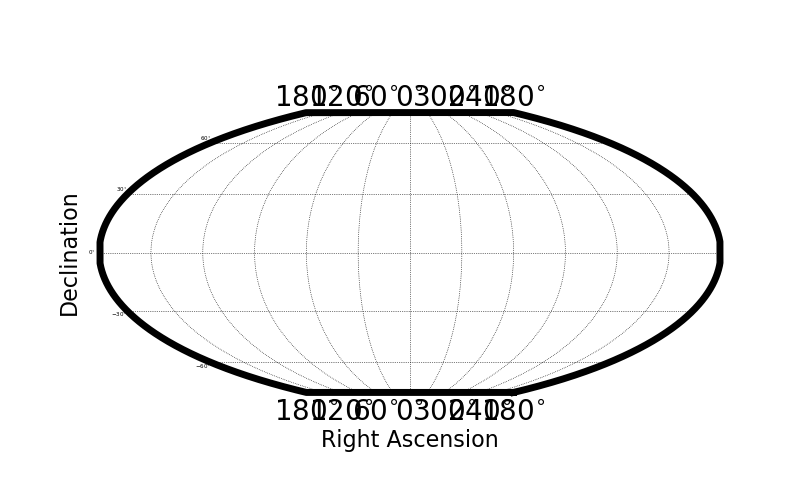
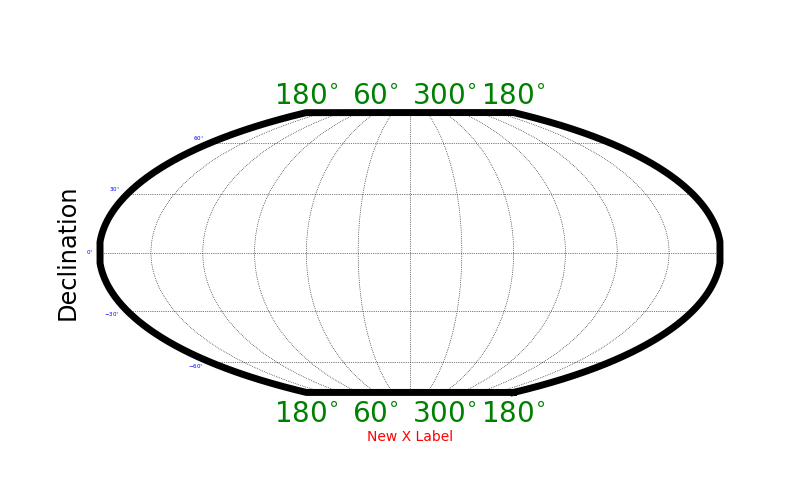
Update documentation on size overrides with new API.

diff --git a/docs/basic_interface.rst b/docs/basic_interface.rst
@@ -238,15 +238,19 @@ Plotting Customization
 
 Much of the plotting functionality is decided by `SkyProj` itself.
 However, there is a lot of customization available.
-The fonts, font sizes, tick label sizes, etc, are all determined by the :code:`matplotlib` RC parameter dictionary.
-A few of these in particular should be highlighted:
+With `SkyProj` version 2 the customization is easier than ever.
 
-* :code:`xticks.labelsize`: Sets the label size for the x (longitude) ticks on the plot.
-* :code:`yticks.labelsize`: Sets the label size for the y (latitude) ticks on the plot.
+Most fonts, font sizes, tick label sizes, etc, are set with the usual :code:`matplotlib` interface.
+For example, you can set the tick label sizes and colors with :code:`sp.ax.tick_params(axis="x", labelsize=20, labelcolor="green")`.
+The axis label sizes and colors can be set with :code:`sp.ax.set_xlabel("New X Label", fontsize=10, fontcolor="red")`.
+
+Additional plot parameters are controlled via the :code:`matplotlib` RC parameter dictionary.
+In particular:
+
 * :code:`axes.linewidth`: Sets the width of the boundary of the full plot.
-* :code:`axes.labelsize`: Sets the size of the x/y (lon/lat) labels; this will default to 16 unless specifically overridden with an :code:`rcparams`.
 
-These values (and any others) can be overridden at the time of map instantiation with a temporary dictionary, like so:
+To override values, we recommend using a matplotlib RC context, like the following.
+Note that the internal use of the `rc_params` (from `SkyProj` version 1) has been deprecated and is no longer used.
 
 .. code-block :: python
 
@@ -254,12 +258,16 @@ These values (and any others) can be overridden at the time of map instantiation
     import skyproj
 
     # These values are comically exaggerated for effect.
-    rcparams = {'xtick.labelsize': 20,
-                'ytick.labelsize': 4,
-                'axes.linewidth': 5}
+    rcparams = {'axes.linewidth': 5}
 
-    fig, ax = plt.subplots(figsize=(8, 5))
-    sp = skyproj.McBrydeSkyproj(ax=ax, rcparams=rcparams)
+    with plt.rc_context(rcparams)
+        fig, ax = plt.subplots(figsize=(8, 5))
+        sp = skyproj.McBrydeSkyproj(ax=ax)
+
+    sp.ax.tick_params(axis="x", labelsize=20, labelcolor="green")
+    sp.ax.tick_params(axis="y", labelsize=4, labelcolor="blue")
+    sp.ax.set_xlabel("New X Label", fontsize=10, color="red")
+
     plt.show()
 
 .. image:: images/skyproj_full_override_sizes.png
